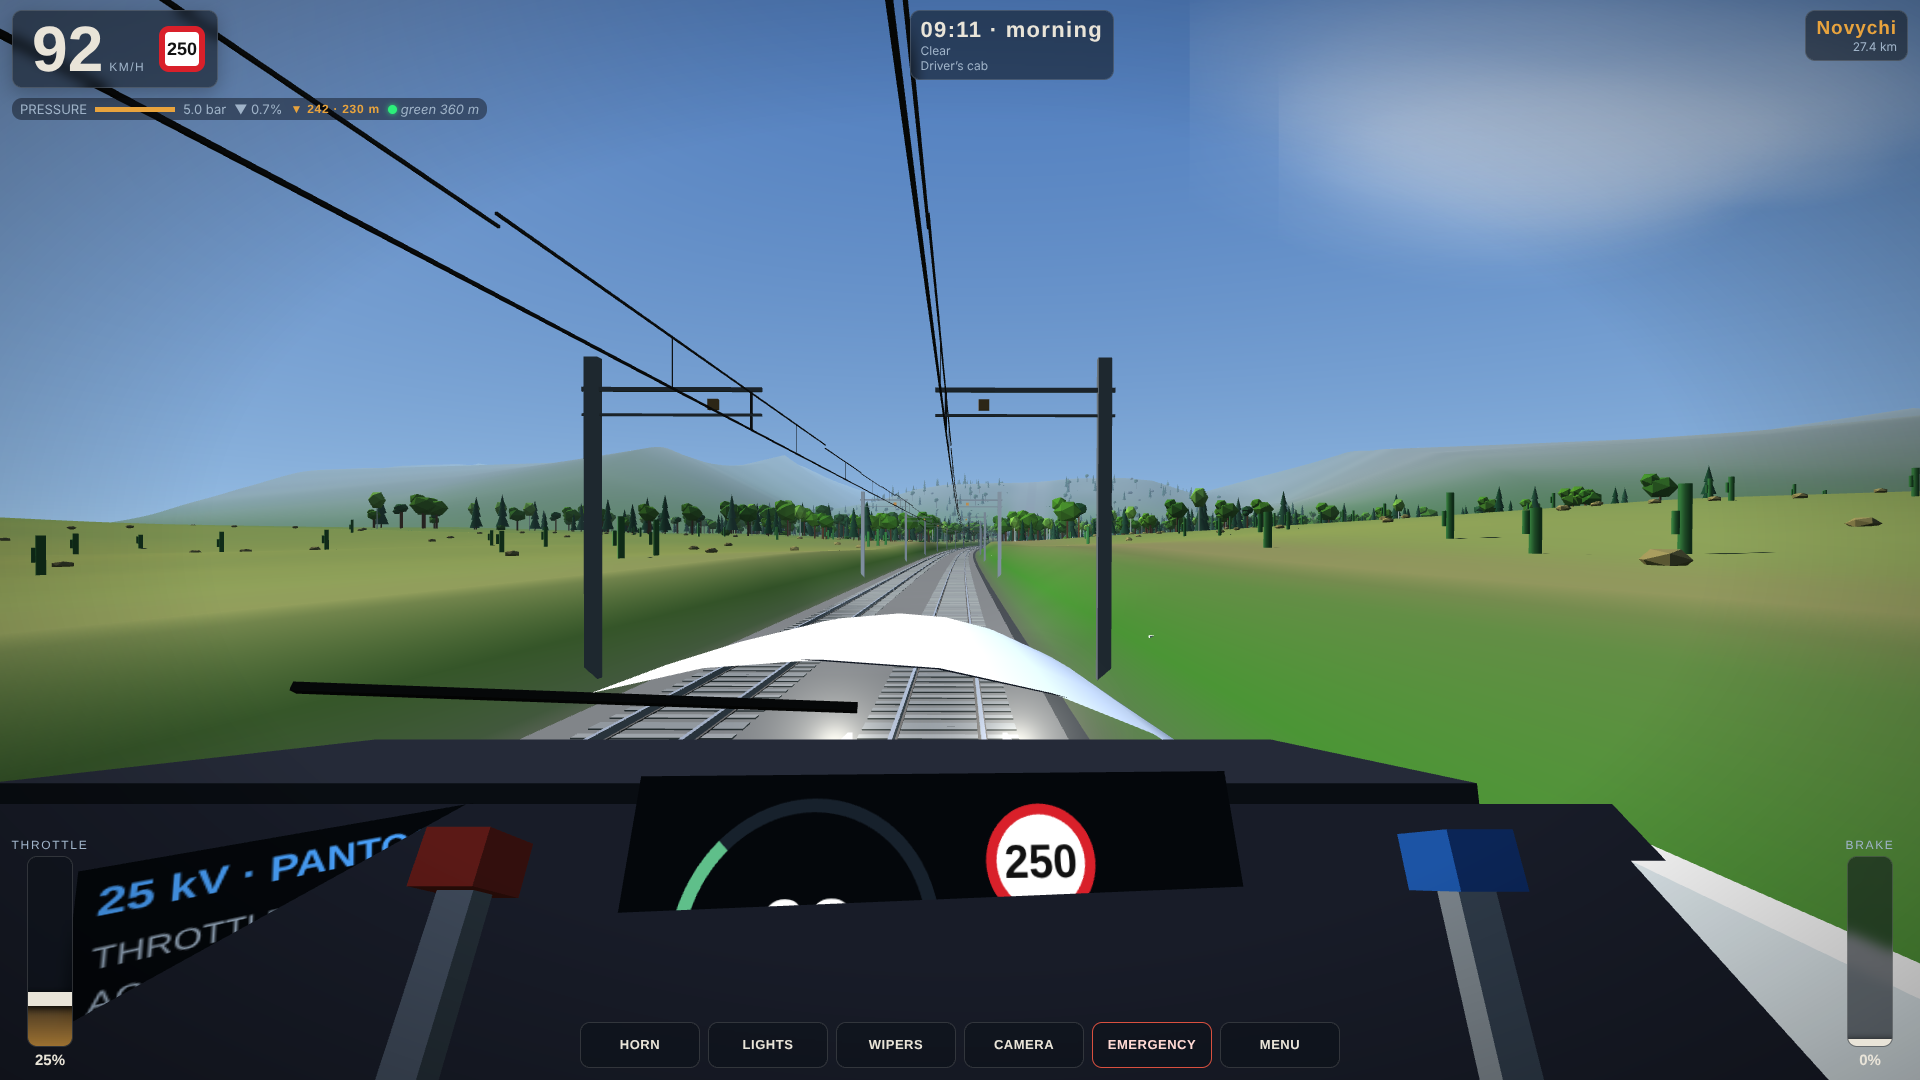
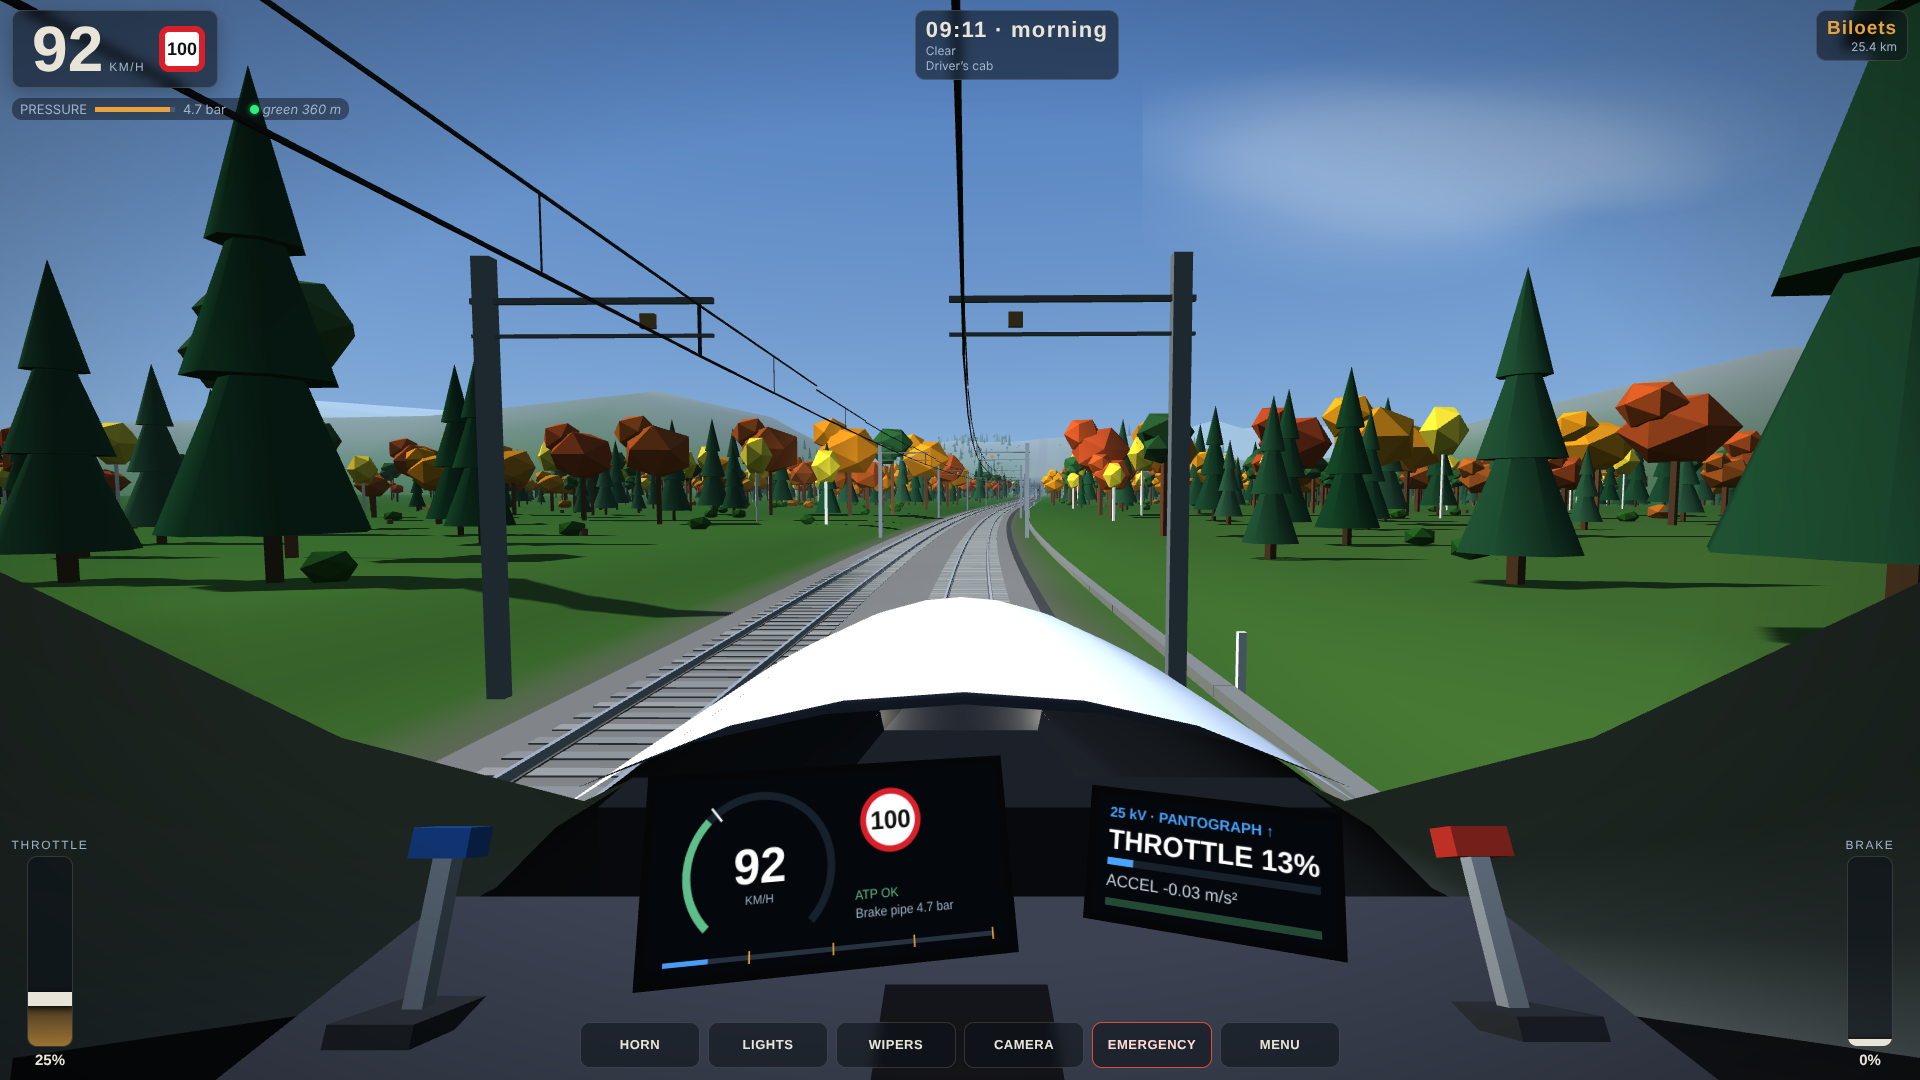
HS cab: opaque inner shell (no more seeing the track through the nose), new dashboard and readable displays
- the driver sits inside the single-sided hull; a back-face inner shell following the hull (closed underside, up to
  the nose tip) is opaque everywhere except the windscreen and side windows
- centred driver eye a little higher, slight default downward look: more of the white nose visible
- desk with instrument hood, two displays facing the driver and fully in view, throttle lever on screen-left and
  brake on screen-right (matching the HUD), larger text on the traction display, parked wiper hidden
- updated store screenshot of the cab

Claude-Session: https://claude.ai/code/session_017UEFq91NZ3baap6wsPnJ2Z

diff --git a/endless-rails/src/game.html b/endless-rails/src/game.html
@@ -992,6 +992,7 @@ function initMaterials() {
   MAT.terrain = new THREE.MeshLambertMaterial({ vertexColors: true });
   MAT.water = new THREE.MeshPhongMaterial({ color: 0x2b6a88, specular: 0xaabbcc, shininess: 70, transparent: true, opacity: .82, depthWrite: false });
   MAT.lit = new THREE.MeshLambertMaterial({ vertexColors: true });
+  MAT.cabSkin = new THREE.MeshLambertMaterial({ vertexColors: true, side: THREE.BackSide }); /* cab / nose inner shell, seen from inside only */
   MAT.build = new THREE.MeshLambertMaterial({ vertexColors: true, map: wt, emissive: 0xffffff, emissiveMap: we, emissiveIntensity: 0 });
   MAT.emis = new THREE.MeshBasicMaterial({ vertexColors: true });
   MAT.lamp = new THREE.MeshBasicMaterial({ color: 0x554a30 });
@@ -2607,37 +2608,51 @@ function buildHSLoco(opt) {
   g.add(sh.build(MAT.trainBody, true)); g.add(lens.build(opt.tail ? (opt.ai ? MH.aiTail : MH.tail) : MH.head));
   const res = { g, axles, heads, beam: [0, 1.1, N1 + .6], len: 26 };
   if (ext) return res;
-  /* cab: raised floor, glare shield under the canopy, desk with two glass displays, side windows */
-  const W = L.inner, F = [.17, .17, .19], DKc = [.12, .13, .16], CT = 3.45, CZ0 = -.5, DZ = 2.5, SZ = 3.05;
-  cab.aabb(-1.38, 1.38, 1.65, 1.75, CZ0, SZ, F);
-  cab.aabb(-1.3, 1.3, CT, CT + .06, CZ0, N0 - .05, W);
-  cab.aabb(-1.38, -.45, 1.75, CT, CZ0, CZ0 + .1, W); cab.aabb(.45, 1.38, 1.75, CT, CZ0, CZ0 + .1, W); cab.aabb(-.45, .45, 3.0, CT, CZ0, CZ0 + .1, W);
-  cab.aabb(-.45, .45, 1.75, 3.0, CZ0 - .1, CZ0, [.03, .03, .04]);
-  for (const sg of [-1, 1]) { const x0 = Math.min(sg * 1.3, sg * 1.38), x1 = Math.max(sg * 1.3, sg * 1.38);
-    cab.aabb(x0, x1, 1.75, CT, CZ0, -.4, W); cab.aabb(x0, x1, 1.75, 2.2, -.4, N0 + .2, W); cab.aabb(x0, x1, 3.3, CT, -.4, N0 - .05, W);
-    cab.aabb(x0, x1, 1.75, 2.55, N0 + .2, SZ, W); }
-  cab.aabb(-1.36, 1.36, 1.75, 2.38, DZ, SZ, [.14, .15, .18]);                          /* desk body */
-  cab.add(TPL.box, 0, 2.42, DZ + .27, 2.7, .07, .62, 0, .5, [.1, .11, .14]);              /* inclined desk face */
-  { const y0 = 2.6, y1 = 2.47, z1 = 3.8; cab.add(TPL.box, 0, (y0 + y1) / 2, (SZ + z1) / 2, 2.3, .05, z1 - SZ + .05, 0, Math.atan2(y1 - y0, z1 - SZ), DKc); } /* glare shield */
-  cab.aabb(-.75, -.05, 1.75, 2.2, .7, 1.25, L.seat1); cab.aabb(-.75, -.05, 2.2, 3.15, .62, .74, L.seat1); /* driver seat behind the eye */
+  /* cab. The driver sits inside the hull under the windscreen canopy; the hull is single-sided, so from inside it is invisible.
+     An inner shell that follows the hull (drawn from inside only) makes every part of the cab and of the hollow nose opaque
+     except the windscreen and the side windows — nothing can be seen through the train body any more.
+     Screen-left in the cab is local +x (the camera looks along +z). */
+  const CZ0 = -.5, ZW = N0 + .205 * (N1 - N0), F = [.15, .15, .17], DKc = [.09, .1, .12], WALL = [.5, .52, .55];
+  { const skin = new Builder(), zsi = zs.filter(z => z >= CZ0 - .001);
+    if (zsi[0] > CZ0) zsi.unshift(CZ0);
+    const inSec = z => { const r = hsSec(z); return Object.assign({}, r, { hw: r.hw - .035, top: r.top - .035, bot: r.bot + .035, ry: Math.max(.1, r.ry - .035) }); };
+    const winWs = (z, y, x, r) => { const t = clamp((z - N0) / (N1 - N0), 0, 1); return z > N0 - .02 && t < .205 && y > r.ys + r.ry * .12 && Math.abs(x) < r.rx * (.8 - t); };
+    const winSide = (z, y) => z > -.4 && z < N0 + .2 && y > 2.15 && y < 3.35;
+    Geo.hull(skin, { zs: zsi, sec: inSec, skip: (z, y, x, r) => winWs(z, y, x, r) || winSide(z, y),
+      col: (z, y) => z > ZW - .05 || y < 2.25 ? DKc : y > 3.45 ? [.42, .44, .47] : WALL });
+    /* closed underside of the shell (faces point down: drawn from inside, above them) */
+    const ir = zsi.map(z => Geo.ring(inSec(z), []).pts[0]), dn = [0, -1, 0];
+    for (let i = 0; i < zsi.length - 1; i++) { const a = ir[i], b = ir[i + 1]; Geo.quad(skin, [a[0], a[1], zsi[i]], [-a[0], a[1], zsi[i]], [-b[0], b[1], zsi[i + 1]], [b[0], b[1], zsi[i + 1]], dn, dn, dn, dn, DKc); }
+    const sm = skin.build(MAT.cabSkin); if (sm) g.add(sm); }
+  cab.aabb(-1.2, 1.2, 1.65, 1.75, CZ0, 3.3, F);                                               /* floor */
+  cab.aabb(-1.38, -.45, 1.75, 3.5, CZ0, CZ0 + .1, WALL); cab.aabb(.45, 1.38, 1.75, 3.5, CZ0, CZ0 + .1, WALL); cab.aabb(-.45, .45, 3.0, 3.5, CZ0, CZ0 + .1, WALL); /* rear wall */
+  cab.aabb(-.45, .45, 1.75, 3.0, CZ0 - .1, CZ0, [.03, .03, .04]);                              /* door to the saloon */
+  /* desk with an instrument hood: its top edge lines up with the bottom of the windscreen as seen from the driver's eye */
+  cab.aabb(-1.0, 1.0, 1.75, 2.36, 2.4, 3.36, [.13, .14, .16]);                                 /* desk body */
+  cab.aabb(-1.02, 1.02, 2.36, 2.4, 2.35, 3.38, [.2, .21, .24]);                                /* desk top */
+  cab.aabb(-.72, .72, 2.4, 2.58, 3.38, 3.54, DKc);                                             /* instrument hood */
+  cab.aabb(-.12, .12, 2.4, 2.47, 2.7, 3.0, [.07, .07, .08]);                                  /* central control block */
+  cab.aabb(-.75, -.05, 1.75, 2.2, .9, 1.45, L.seat1); cab.aabb(-.75, -.05, 2.2, 3.2, .82, .94, L.seat1);   /* (behind the eye) */
+  cab.aabb(.05, .75, 1.75, 2.2, .9, 1.45, L.seat1); cab.aabb(.05, .75, 2.2, 3.2, .82, .94, L.seat1);
   const cabMesh = cab.build(MAT.lit); g.add(cabMesh);
   const eye = new THREE.Vector3(CAB_EYE[0], CAB_EYE[1], CAB_EYE[2]);
-  const cv = document.createElement('canvas'); cv.width = 640; cv.height = 320; const tex = new THREE.CanvasTexture(cv);
-  const panel = new THREE.Mesh(new THREE.PlaneGeometry(.84, .42), new THREE.MeshBasicMaterial({ map: tex }));
-  panel.position.set(-.32, 2.48, DZ + .36); g.add(panel); panel.lookAt(eye);
-  const cv2 = document.createElement('canvas'); cv2.width = 320; cv2.height = 160; const tex2 = new THREE.CanvasTexture(cv2);
-  const panel2 = new THREE.Mesh(new THREE.PlaneGeometry(.6, .3), new THREE.MeshBasicMaterial({ map: tex2 }));
-  panel2.position.set(.45, 2.46, DZ + .42); g.add(panel2); panel2.lookAt(eye);
+  const scr = (w, h, cw, ch) => { const cv = document.createElement('canvas'); cv.width = cw; cv.height = ch; const tex = new THREE.CanvasTexture(cv); tex.anisotropy = 4;
+    const m = new THREE.Mesh(new THREE.PlaneGeometry(w, h), new THREE.MeshBasicMaterial({ map: tex })); g.add(m); return { cv, tex, m }; };
+  const S1 = scr(.6, .3, 640, 320), S2 = scr(.4, .2, 320, 160);
+  S1.m.position.set(.23, 2.555, 3.2); S1.m.lookAt(eye); S2.m.position.set(-.43, 2.54, 3.22); S2.m.lookAt(eye);
+  for (const S of [S1, S2]) { const b = new THREE.Mesh(new THREE.PlaneGeometry(S.m.geometry.parameters.width + .03, S.m.geometry.parameters.height + .03), new THREE.MeshBasicMaterial({ color: 0x050608 })); b.position.copy(S.m.position); b.quaternion.copy(S.m.quaternion); b.translateZ(-.004); g.add(b); }
   const mkLever = (x, colr, len) => {
-    const p = new THREE.Group(); p.position.set(x, 2.44, DZ + .1);
-    const st = new THREE.Mesh(new THREE.BoxGeometry(.04, len, .04), new THREE.MeshLambertMaterial({ color: 0x777b82 })); st.position.y = len / 2; p.add(st);
-    const kn = new THREE.Mesh(new THREE.BoxGeometry(.07, .06, .1), new THREE.MeshLambertMaterial({ color: colr })); kn.position.y = len + .03; p.add(kn); g.add(p); return p;
+    const p = new THREE.Group(); p.position.set(x, 2.4, 3.0);
+    const base = new THREE.Mesh(new THREE.BoxGeometry(.12, .03, .2), new THREE.MeshLambertMaterial({ color: 0x2a2c30 })); base.position.y = .015; p.add(base);
+    const st = new THREE.Mesh(new THREE.BoxGeometry(.03, len, .03), new THREE.MeshLambertMaterial({ color: 0x8a8e94 })); st.position.y = len / 2; p.add(st);
+    const kn = new THREE.Mesh(new THREE.BoxGeometry(.09, .045, .06), new THREE.MeshLambertMaterial({ color: colr })); kn.position.y = len + .02; p.add(kn); g.add(p); return p;
   };
-  const thrL = mkLever(-.9, 0x1b4f9c, .2), brkL = mkLever(.2, 0xb02a20, .2);
+  const thrL = mkLever(.82, 0x1b4f9c, .24), brkL = mkLever(-.82, 0xb02a20, .24);
   const wipers = [];
-  { const p = new THREE.Group(); p.position.set(-.1, 2.6, N0 + 2.2); p.rotation.x = -1.06; const a = new THREE.Mesh(new THREE.BoxGeometry(.025, 1.25, .02), new THREE.MeshLambertMaterial({ color: 0x101010 })); a.position.y = .62; p.add(a); g.add(p); wipers.push(p); }
+  { const p = new THREE.Group(); p.position.set(.32, 2.715, ZW - .12); p.rotation.x = -1.08; const a = new THREE.Mesh(new THREE.BoxGeometry(.018, 1.05, .015), new THREE.MeshLambertMaterial({ color: 0x15171a })); a.position.y = .52; p.add(a); g.add(p); wipers.push(p); }
+  const cv = S1.cv, tex = S1.tex, cv2 = S2.cv, tex2 = S2.tex;
   const spot = new THREE.SpotLight(0xf4f8ff, 0, 520, .3, .5, 1.1); spot.position.set(0, 1.3, N1 + .6); const tg = new THREE.Object3D(); tg.position.set(0, 1.2, 80); g.add(tg); spot.target = tg; g.add(spot);
-  return Object.assign(res, { cv, tex, cv2, tex2, thrL, brkL, wipers, spot, cabMesh, draw: drawHSPanels, pantoMat: null });
+  return Object.assign(res, { cv, tex, cv2, tex2, thrL, brkL, wipers, spot, cabMesh, draw: drawHSPanels, pantoMat: null, hideParked: true });
 }
 /* rear driving car of the high-speed set: the same nose turned round, with passenger doors and red tail lamps */
 function buildHSTail(rr, opt) {
@@ -2671,11 +2686,13 @@ function drawHSPanels(L, ph, speedKmh, thr, wxTxt) {
   c.fillStyle = '#26323f'; c.fillRect(30, 296, 580, 8); c.fillStyle = '#4aa3ff'; c.fillRect(30, 296, 580 * thr, 8);
   c.fillStyle = '#e8a33d'; const notch = Math.round(thr * 4); for (let i = 0; i < 4; i++) c.fillRect(30 + 580 * (i + 1) / 4 - 2, 290, 3, 20);
   L.tex.needsUpdate = true;
-  const d = L.cv2.getContext('2d'); d.fillStyle = '#04070b'; d.fillRect(0, 0, 320, 160);
-  d.fillStyle = '#4aa3ff'; d.font = cfont('600', 24); d.textAlign = 'left'; d.fillText(_T('25 кВ · ПАНТОГРАФ ↑'), 10, 30, 300);
-  d.fillStyle = '#9fb3c8'; d.font = cfont('400', 18); d.fillText(_T('ТЯГА {0}%', Math.round(thr * 100)) + '  ' + _T('{0} кН', Math.round(thr * 300)), 10, 62, 300);
-  d.fillText(_T('ПРИСК. {0} м/с²', fmtN(ph.acc, 2)), 10, 88, 300); d.fillText(wxTxt || '', 10, 114, 300);
-  d.fillStyle = ph.emerg ? '#d9503f' : '#244a35'; d.fillRect(10, 132, 300, 12); L.tex2.needsUpdate = true;
+  /* traction display: large, high-contrast lines with margins (it is small on a phone screen) */
+  const d = L.cv2.getContext('2d'); d.fillStyle = '#04070b'; d.fillRect(0, 0, 320, 160); d.textAlign = 'left'; d.textBaseline = 'alphabetic';
+  d.fillStyle = '#4aa3ff'; d.font = cfont('600', 20); d.fillText(_T('25 кВ · ПАНТОГРАФ ↑'), 18, 30, 284);
+  d.fillStyle = '#ffffff'; d.font = cfont('600', 38); d.fillText(_T('ТЯГА {0}%', Math.round(thr * 100)), 18, 74, 284);
+  d.fillStyle = '#17212c'; d.fillRect(18, 86, 284, 10); d.fillStyle = '#4aa3ff'; d.fillRect(18, 86, 284 * thr, 10);
+  d.fillStyle = '#c9d4dd'; d.font = cfont('400', 22); d.fillText(_T('ПРИСК. {0} м/с²', fmtN(ph.acc, 2)), 18, 124, 284);
+  d.fillStyle = ph.emerg ? '#d9503f' : '#244a35'; d.fillRect(18, 140, 284, 10); L.tex2.needsUpdate = true;
 }
 
 const TRAIN_DEFS = {
@@ -2689,7 +2706,7 @@ const TRAIN_DEFS = {
   hs: {
     id: 'hs', name: 'Електропоїзд «Стріла HS»', short: 'СТРІЛА HS', desc: 'Швидкісний електропоїзд із носовим обтічником і склоекранною кабіною. До 250 км/год на швидкісних ділянках, на звичайній колії — лише 160. Ступінчаста тяга, АЗШ.',
     mass: 400000, m0: 100000, mc: 60000, pk: n => .5 + .1 * n, power: 8.4e6, fmax: 330e3, vmax: 250 / 3.6, roll: .0011, lin: 22, cx: 3.4, brk: 1.0, fade: .12, bpRel: .95, bpRise: .5,
-    ncars: 6, locoLen: 26, carLen: 22, eye: [-.35, 3.0, 1.85], buildLoco: buildHSLoco, car: { liv: LIV_HS, hs: 1, wh: .6, wc: [-6.9, -4.6, -2.3, 0, 2.3, 4.6, 6.9], y0: 2.0, y1: 2.95, top: 3.85, ry: .8, bands: L => [[0, 1.3, L.teal], [1.55, 1.68, L.acc || L.teal]] },
+    ncars: 6, locoLen: 26, carLen: 22, eye: [0, 3.2, 1.9], cabPitch: -.06, buildLoco: buildHSLoco, car: { liv: LIV_HS, hs: 1, wh: .6, wc: [-6.9, -4.6, -2.3, 0, 2.3, 4.6, 6.9], y0: 2.0, y1: 2.95, top: 3.85, ry: .8, bands: L => [[0, 1.3, L.teal], [1.55, 1.68, L.acc || L.teal]] },
     lineMax: 160, fastMax: 250, latA: 1.25, comfDecel: .7, notch: 4, headLean: .8,
     snd: { pitch: .8, diesel: 0, whine: 1 }, atp: 'auto'
   }
@@ -4872,7 +4889,7 @@ const CamMgr = {
       this.applyLook(L, inp, dt, sens, lim);
       const sh = id === 'cab' || id === 'pass' ? shake(1) : shake(.4);
       const hl = (id === 'cab' || id === 'pass') ? train.def.headLean : 0, ac = clamp(S.acc || 0, -1.4, 1.4), lt = clamp(S.lat || 0, -3, 3); p.set(local[0] + sh[0] - lt * .014 * hl, local[1] + sh[1] - Math.abs(lt) * .004 * hl, local[2] - ac * .07 * hl); it.g.updateMatrixWorld(); it.g.localToWorld(p);
-      e.set(L.pitch, baseYaw + L.yaw, 0); q.setFromEuler(e); q.premultiply(it.g.getWorldQuaternion(new THREE.Quaternion()));
+      e.set(L.pitch + (id === 'cab' ? train.def.cabPitch || 0 : 0), baseYaw + L.yaw, 0); q.setFromEuler(e); q.premultiply(it.g.getWorldQuaternion(new THREE.Quaternion()));
       cam.position.copy(p); cam.quaternion.copy(q); wantFov = fov + inp.zoom * -2 * 0; this.zoomF = clamp((this.zoomF || 0) + inp.zoom * .02, -.3, .5); wantFov = fov * (1 + this.zoomF);
     } else if (id === 'walk') {
       this.applyLook(L, inp, dt, sens, [Math.PI, 1.2]);
@@ -5585,7 +5602,7 @@ function frame(now) {
   EnvMap.update(dt);
   cabLight.intensity = CamMgr.inside ? night * 1.0 * (G.cabinLight ? 1 : .3) : 0;
   if (G.wipers) UI.wipePhase += dt * 1.9; const sw = .5 + .5 * Math.sin(UI.wipePhase - Math.PI / 2), sweepNow = G.wipers ? sw : 0;
-  for (const w of L.wipers) w.rotation.z = lerp(-1.45, .15, sweepNow); G.wipeSweep = sweepNow;
+  for (const w of L.wipers) { w.rotation.z = lerp(-1.45, .15, sweepNow); if (L.hideParked) w.visible = sweepNow > .02; } G.wipeSweep = sweepNow;
   G.drawT = (G.drawT || 0) - dt; if (G.drawT < 0 && id === 'cab') { G.drawT = .066; (L.draw || drawCabPanels)(L, p, p.v * 3.6, p.throttle, _T(Env.wxName)); }
   L.thrL.rotation.x = lerp(.55, -.55, p.throttle); L.brkL.rotation.x = lerp(.55, -.55, p.brake);
   sky.update(dt, G.t, Env.tunnel); precip.update(dt, camera.position, G.camVel, G.t);
